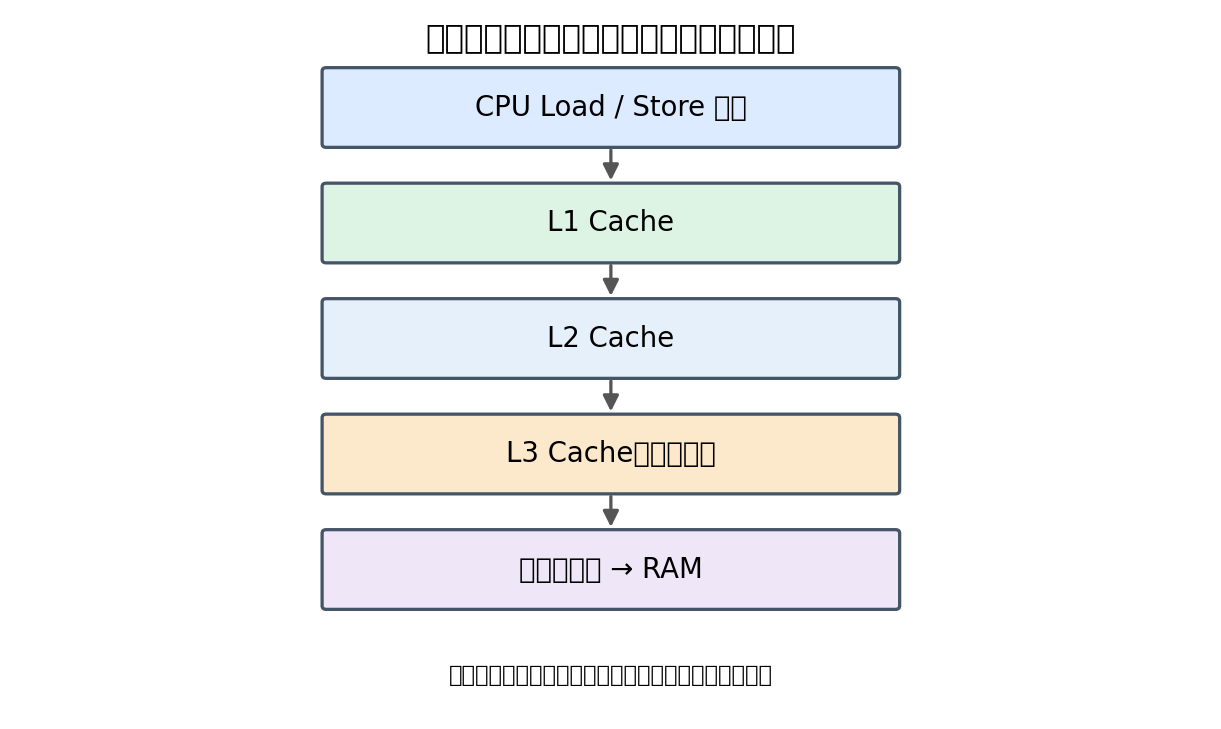
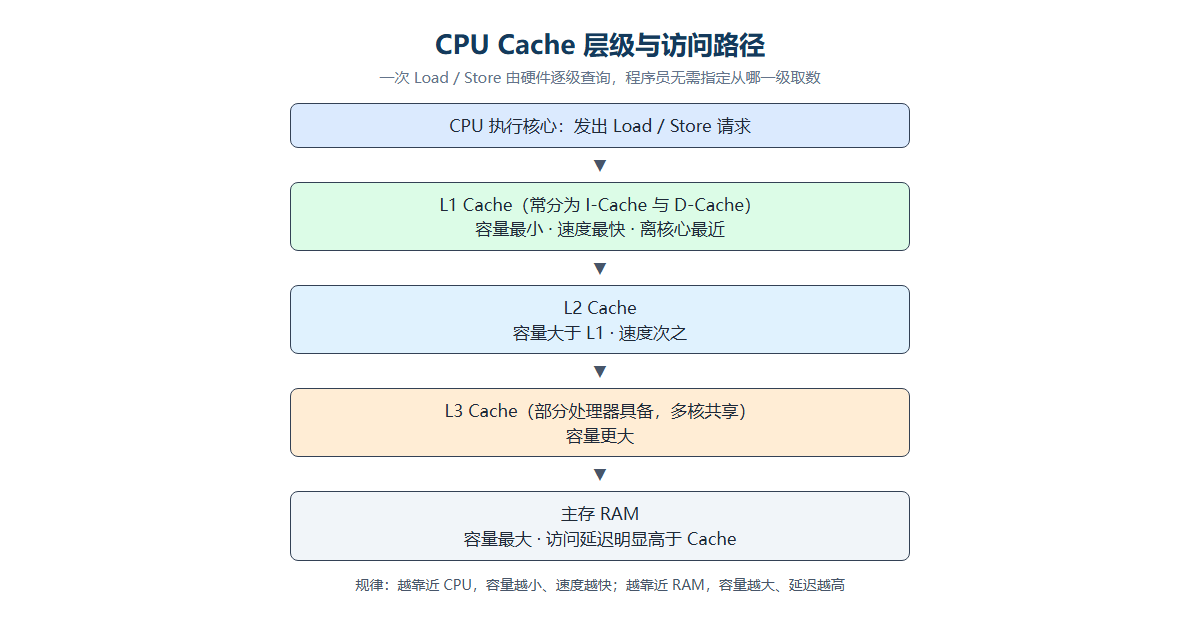
docs: 重绘第10章配图（修复中文乱码）并补充 VIPT 索引越界、缓存别名与内存属性章节

Changed region(s): [[0.2158, 0.0306, 0.7708, 0.95]]

diff --git a/10-计算机组成原理/CPU_Cache与VIPT工作机制.md b/10-计算机组成原理/CPU_Cache与VIPT工作机制.md
@@ -1,6 +1,6 @@
 # CPU Cache、VIPT 与 Cache Miss 工作机制
 
-> 本文梳理 CPU Cache 的分层结构、VIPT（虚拟索引、物理标记）的地址划分与容量约束，以及 Cache Miss 时的硬件行为与软件维护要点。
+> 本文梳理 CPU Cache 的分层结构、VIPT（虚拟索引、物理标记）的地址划分与容量约束、Index 超出或不足页内偏移范围时的处理方式，以及 Cache Miss 的硬件行为、内存属性（Memory Attributes）与 Cache Index 的区别。
 
 ## 1. Cache 是什么：硬件自动管理的高速缓存
 
@@ -151,6 +151,130 @@ Cache 容量 / 路数 ≤ 页面大小
 
 当页面大小为 4 KB 时，满足这一条件。这样 Index 所需的位都可以从页内偏移中取得。
 
+### 3.5 如果 Index 超出页内偏移范围，会怎样？
+
+上面的条件是"刚好够用"的情形。一旦容量继续增大，约束就会被打破，问题从容量设计变成地址别名。
+
+取一组具体参数：页面 4 KB、Cache Line 64 B、Cache 64 KB、8 路组相联。
+
+```text
+总行数 = 64 KB / 64 B
+       = 1024 行
+
+组数   = 1024 / 8
+       = 128 组
+
+Index 位数 = log2(128)
+           = 7 位
+
+Offset 位数 = log2(64)
+            = 6 位
+```
+
+地址划分变为：
+
+| 字段 | 位数 | 位区间 |
+| --- | --- | --- |
+| Tag | 剩余高位 | 13 位及以上 |
+| Index | 7 位 | VA[12:6] |
+| Offset | 6 位 | VA[5:0] |
+
+页内偏移只有 `VA[11:0]`，而 Index 已经用到了 `VA[12]`。`VA[12]` 属于虚拟页号 VPN 的一部分，地址转换后可能改变：
+
+```text
+VA[12] ≠ PA[12]
+```
+
+于是同一块物理内存，通过两个不同的虚拟地址访问时，可能被索引到不同的 Cache 组，这就是 **Cache Aliasing（缓存别名）**。若不加处理，同一物理地址可能在 Cache 中存在两份副本，写其中一份、另一份就变成旧数据。
+
+解决办法有三类。
+
+**方案一：增加路数，减少组数**
+
+约束式仍然是：
+
+```text
+Cache 容量 / 路数 ≤ 页面大小
+```
+
+等价于：
+
+```text
+组数 × Cache Line 大小 ≤ 页面大小
+```
+
+以 4 KB 页面为例：
+
+| Cache 容量 | 路数 | 每路容量 | 是否满足 |
+| --- | --- | --- | --- |
+| 32 KB | 8 | 4 KB | 满足（Index 6 位） |
+| 64 KB | 8 | 8 KB | 不满足（Index 7 位） |
+| 64 KB | 16 | 4 KB | 满足（Index 6 位） |
+| 128 KB | 32 | 4 KB | 满足（Index 6 位） |
+
+路数翻倍，组数就减半，Index 少一位，重新落回页内偏移。64 KB 用 8 路需要 7 位 Index，不满足；改成 16 路只剩 64 组，6 位 Index 即可满足。这是最直观的做法，代价是相联度提高、比较逻辑变复杂。
+
+**方案二：改用 PIPT**
+
+先由 MMU 把虚拟地址转成物理地址，再用物理地址的 Index 选组、物理 Tag 比较。索引不再来自虚拟地址，别名问题从根上消失。
+
+代价是 Cache 索引必须等地址转换完成，VIPT "在转换完成前先选组"的并行优势没有了，访问延迟增加。
+
+**方案三：由硬件处理别名**
+
+在 Cache 或总线层面检测"不同虚拟地址映射到同一物理页"的情况，必要时做同步或失效，或采用特殊的索引/标签设计避免错误命中。功能上可行，但硬件设计复杂度明显提高。
+
+归纳：优先用增加路数把 Index 压回页内偏移；容量需求超出约束时改用 PIPT；也可以由硬件承担别名处理。
+
+### 3.6 如果 Index 小于页内偏移范围，会不会有地址读不到 Cache？
+
+不会。Index 比页内偏移"短"，只是没有用满页内的位，地址照样能正常访问 Cache。
+
+换一组参数：页面 4 KB、Cache Line 64 B、Cache 16 KB、8 路组相联。
+
+```text
+总行数 = 16 KB / 64 B
+       = 256 行
+
+组数   = 256 / 8
+       = 32 组
+
+Index 位数 = log2(32)
+           = 5 位
+
+Offset 位数 = log2(64)
+            = 6 位
+```
+
+地址划分：
+
+| 字段 | 位数 | 位区间 |
+| --- | --- | --- |
+| Offset | 6 位 | VA[5:0] |
+| Index | 5 位 | VA[10:6] |
+| 未参与索引 | 1 位 | VA[11] |
+
+`VA[11]` 既不参与组索引，也不参与块内偏移，但它仍然是地址的一部分。例如 `0x00000000` 与 `0x00000800` 的低 11 位相同，会落在同一组的同一行内位置，但两者转换后的 Tag 不同，可以分别存放在该组的不同路中——只要 Tag 比较通过，地址就正常命中。
+
+约束核对：
+
+```text
+Index + Offset = 5 + 6
+               = 11 位
+
+11 位 ≤ 12 位（页内偏移）
+```
+
+完全满足 VIPT 约束。三种情况对照：
+
+| Index + Offset 与页内偏移 | 是否正常 | 原因 |
+| --- | --- | --- |
+| 小于 | 正常 | 部分页内位不参与索引 |
+| 等于 | 正常 | 刚好用满页内偏移 |
+| 大于 | 需要处理 | 索引用到 VPN 位，可能产生别名 |
+
+一句话记忆：**VIPT 关心的是 Index 有没有超出页内偏移，而不是有没有用满页内偏移。**
+
 ## 4. Cache Hit 和 Cache Miss：耗时为什么不同？
 
 - **Cache Hit（命中）**：所需数据已经在当前 Cache 层级中，可以直接返回。
@@ -250,7 +374,44 @@ dma_sync_single_for_device();
 - **PIPT**：物理地址索引、物理地址标记。通常需要先获得物理地址再完成索引。
 - **VIPT**：虚拟地址索引、物理地址标记。利用页内偏移在地址转换前选择 Cache 组，再用物理 Tag 确认数据身份。
 
-## 9. 核心结论
+## 9. 内存属性（Memory Attributes）与 Cache Index 的区别
+
+一个常见误解是：以为"低地址用 Cache、高地址不用 Cache"，或者以为某个地址位没参与 Index 就意味着这个地址不走 Cache。两种理解都不对。
+
+真正决定"这次访存能不能用 Cache"的，是页表项里配置的**内存属性（Memory Attributes）**，而不是地址的高低。
+
+以 ARM 为例，Linux 打开 MMU 后，虚拟地址经页表映射到物理地址，页表项（PTE）中同时配置了内存属性。常见三类：
+
+| 内存属性 | 含义 | 是否使用普通数据 Cache |
+| --- | --- | --- |
+| Normal Cacheable | 普通可缓存内存 | 使用 |
+| Normal Non-cacheable | 普通不可缓存内存 | 不使用普通数据 Cache |
+| Device | 设备内存 | 不使用，采用设备访问语义 |
+
+示意性映射（仅说明机制，并非某颗 ARM 芯片的真实内存布局）：
+
+```text
+0x80000000 ~ 0x80FFFFFF   Normal Cacheable       允许使用 Cache
+0x90000000 ~ 0x900FFFFF   Normal Non-cacheable   绕过普通数据 Cache
+0xA0000000 ~ 0xA000FFFF   Device                 外设寄存器等设备访问
+```
+
+看起来像是按地址段划分，但这只是某套内存映射方案的结果，并不是架构规定。属性由页表按页配置，因此：
+
+- 可缓存与不可缓存的区域不要求按连续地址整齐排列，相邻页可以有不同属性；
+- 不存在"低地址必须可缓存、高地址必须不可缓存"的规则；
+- 同一物理页一般不应建立属性不兼容的多个别名映射，否则行为不确定。
+
+再看它与 Cache Index 的区别：
+
+| 概念 | 由谁决定 | 作用 |
+| --- | --- | --- |
+| Cache Index | Cache 硬件组织（容量、行大小、路数） | 决定数据放在 Cache 的哪一组 |
+| Memory Attributes | MMU 页表项配置 | 决定这次访问是否允许使用 Cache |
+
+用 3.6 的例子说明：`VA[11]` 没有参与 Index，但只要该地址对应的页表项配置为 Normal Cacheable，访问照样走 Cache。**"某位没参与索引"与"该地址不能用 Cache"是两件互不相干的事。**
+
+## 10. 核心结论
 
 1. Cache 的存储、查询、命中判断和缺失处理主要由 CPU 硬件实现。
 2. 普通程序只发出内存读写请求，不需要编写读取 L1、L2、L3 的指令。
@@ -258,3 +419,5 @@ dma_sync_single_for_device();
 4. 现代 CPU 可以利用乱序执行、预取和非阻塞缓存等机制隐藏部分等待延迟。
 5. VIPT 的核心是：**用虚拟地址提前选择 Cache 组，同时进行地址转换，最后用物理地址 Tag 判断是否命中。**
 6. Linux 内核和驱动通常不负责实现 Cache 本身，但在 DMA 等场景中需要正确处理 Cache 一致性。
+7. VIPT 只要求 `Index + Offset` 不超过页内偏移：超出时用增加路数、改用 PIPT 或硬件别名处理；没超出（包括小于）都能正常工作。
+8. 是否使用 Cache 由页表内存属性（Memory Attributes）决定，与 Cache Index 无关，不能按地址高低推断某段内存是否可缓存。
